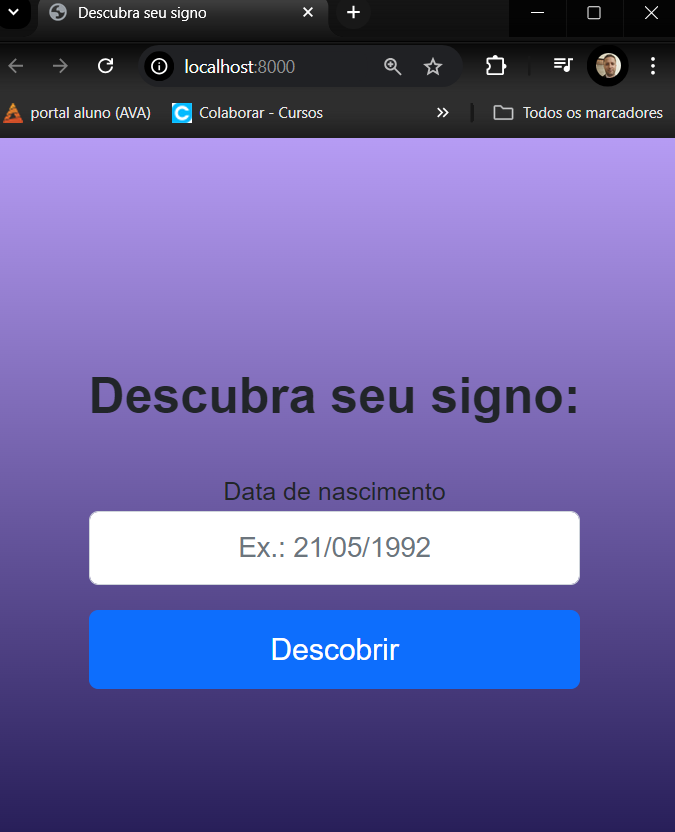
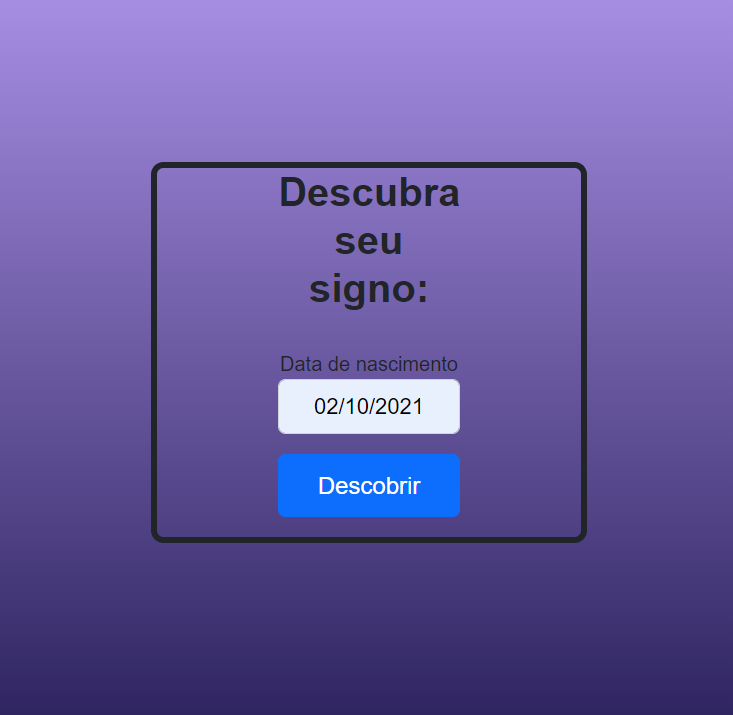
atualizado

diff --git a/assets/css/style.css b/assets/css/style.css
@@ -28,11 +28,16 @@ body, html {
 }
 
 /* Estilos customizados para o formulário */
-#signo-form {
+#signo-form-ext {
     max-width: 500px;
-    margin: 0 auto;
-    border: 2px solid ;
-    border-radius: 3px;
+    margin: 26px auto;
+    border: 5px solid;
+    border-radius: 10px;
+}
+#signo-form-int{
+    max-width: 500px;
+    margin: 16px auto;
+    
 }
 
 #data_nascimento {

diff --git a/index.php b/index.php
@@ -9,11 +9,11 @@
 </head>
 <body>
 
-<div id="signo-form" class="container mt-5">
+<div id="signo-form-ext" class="container mt-5">
     <div class="row justify-content-center">
         <div class="col-md-6 text-center">
             <h1>Descubra seu signo:</h1>
-            <form id="signo-form" method="POST" action="show_zodiac_sign.php">
+            <form id="signo-form-int" method="POST" action="show_zodiac_sign.php">
                 <div class="form-group mt-4">
                     <label for="data_nascimento">Data de nascimento</label>
                     <input type="text" class="form-control text-center" id="data_nascimento" name="data_nascimento" placeholder="Ex.: 21/05/1992">
